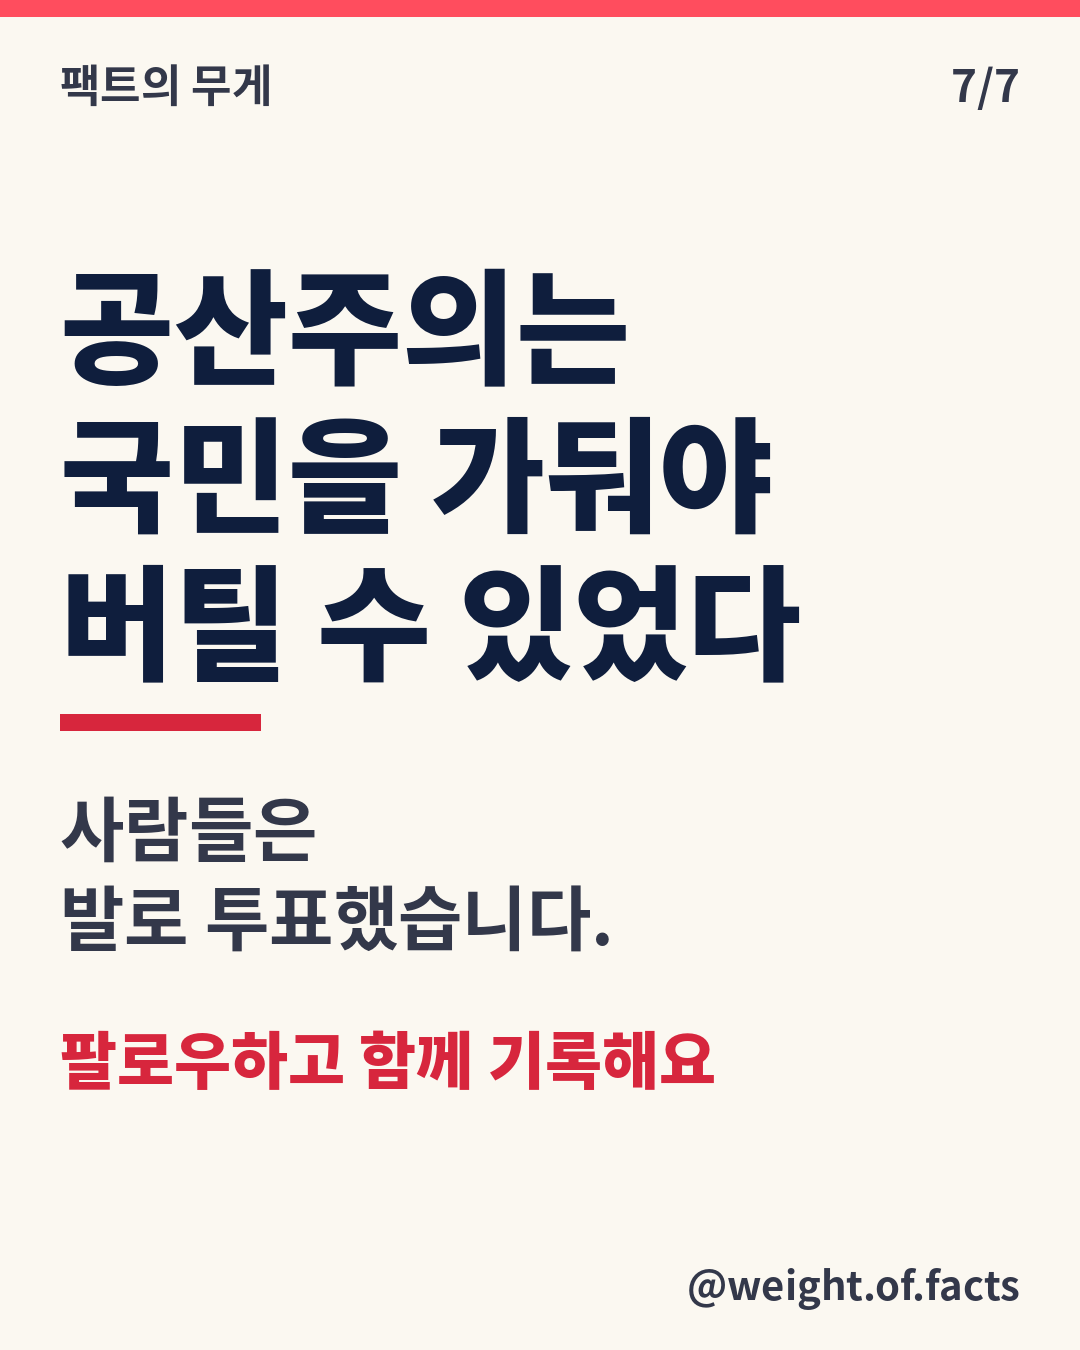
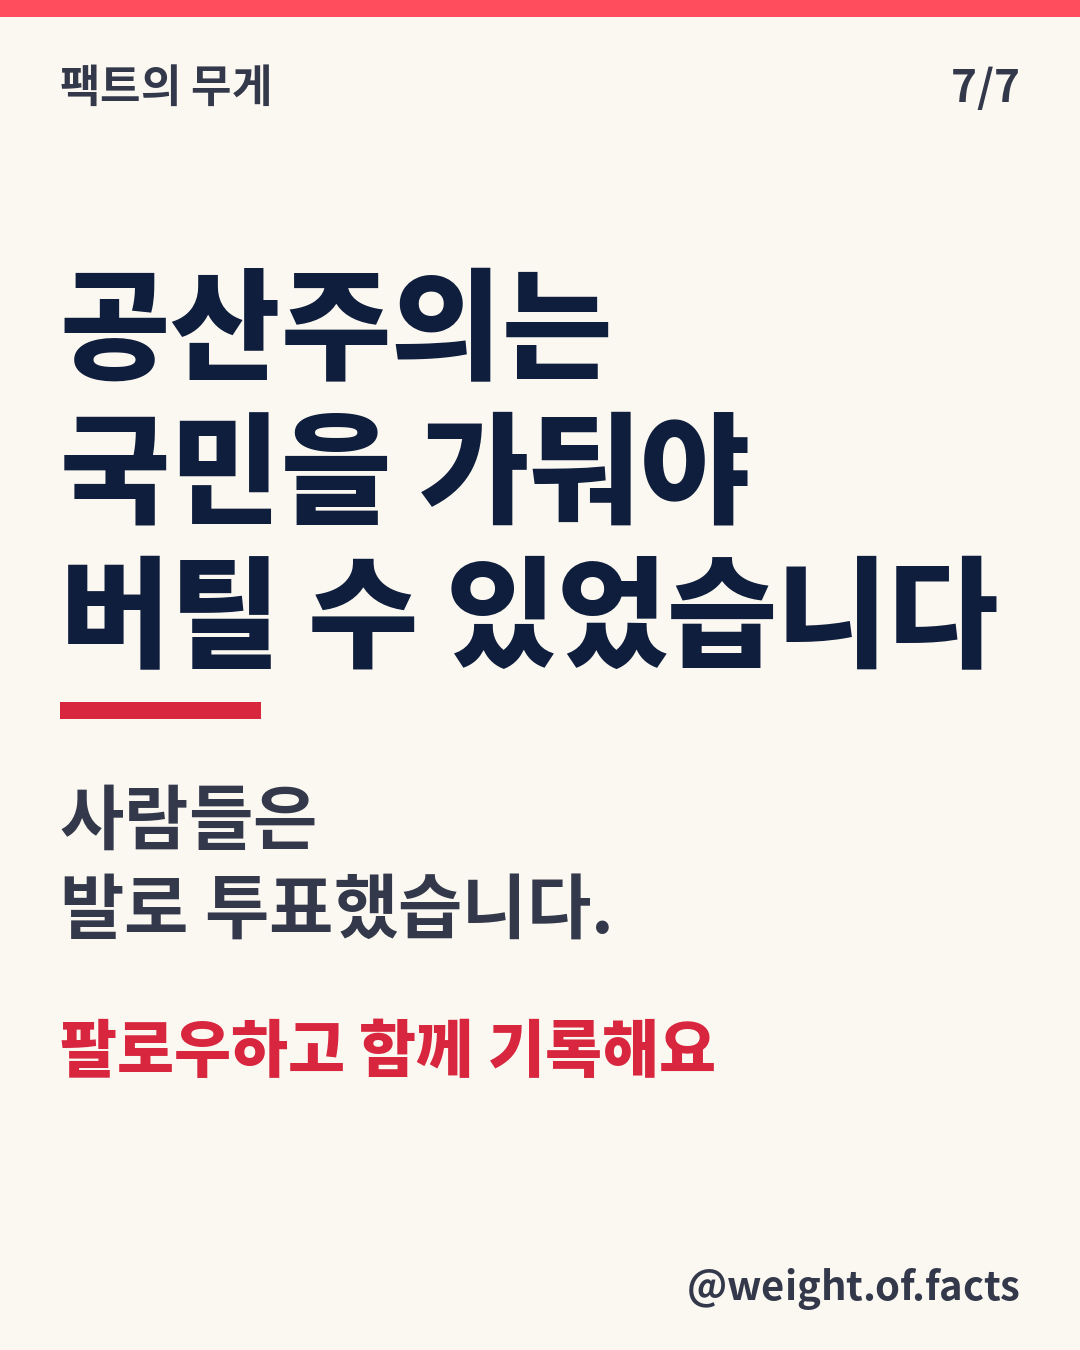
말투 통일: 큰 제목 ~한다, 설명·마지막 장 ~합니다
Claude-Session: https://claude.ai/code/session_01SAkGGqEMXxCyEiJA26VZCo

Changed region(s): [[0.0611, 0.1867, 0.9167, 0.7156], [0.0611, 0.7467, 0.6722, 0.8089]]

diff --git a/GUIDE.md b/GUIDE.md
@@ -58,6 +58,11 @@
 - 독재·전체주의 정권의 주장을 실을 때는 반론 없이 그대로 두지 않는다. 바로 옆에 그 주장을 뒤집는 **사실**을 붙인다.
   (예: 홍콩 정부 "법치" → "그 판사는 정부가 고른 3명이었다. 배심원도 없었다.")
 - 표지·흐름도 제목·마지막 장은 직접적이고 날카롭게. (예: "독재는 언제나 '법'의 이름으로 옵니다")
+- 말투 규칙:
+  - 큰 제목(표지·본문 장 큰 글씨): '~한다' 또는 명사로 끝낸다. (예: "인터넷을 끄고 총을 쐈다", "강요된 침묵")
+  - 작은 설명 글: '~합니다'.
+  - 마지막 장 큰 문구: '~합니다'로 통일. (예: "독재는 언제나 '법'의 이름으로 옵니다")
+  - 인스타 본문·Threads 글: '~합니다', Threads는 '~일까요?' 질문으로 끝.
 - 어조가 강해도 **사실은 출처로 확인된 것만**. 과장된 숫자·추측·인신공격·조롱은 금지.
 
 ## 댓글 원칙 (절대 규칙)
